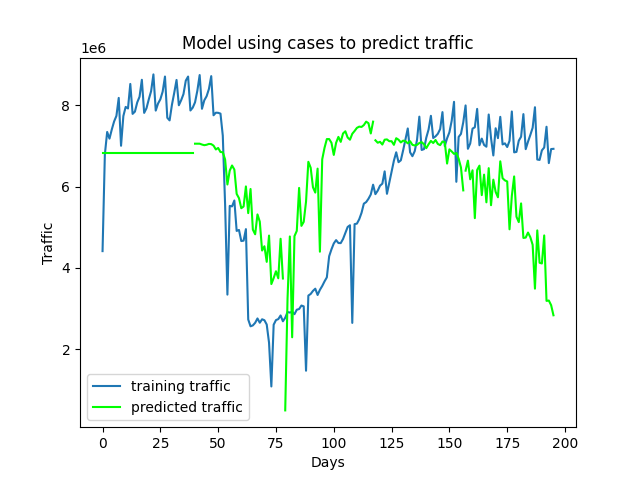
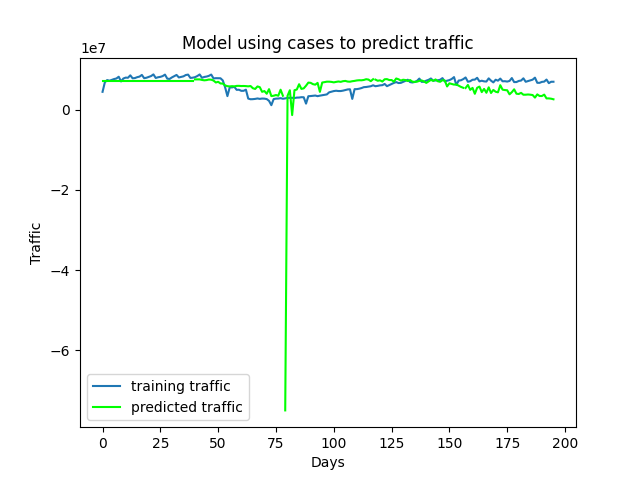
tried adding poly feats

diff --git a/weekday_data/models/feat_eng_model.py b/weekday_data/models/feat_eng_model.py
@@ -1,0 +1,44 @@
+import pandas as pd
+import matplotlib.pyplot as plt
+from covid_traffic_modelling import CovidTrafficModelling
+from sklearn.preprocessing import PolynomialFeatures
+import sys
+
+data = pd.read_csv("../../data/formatted_data.csv")
+days = data.iloc[:, 0]
+cases = data.iloc[:, 1]
+traffic = data.iloc[:, 2]
+
+print(sys.argv)
+covid_traffic = CovidTrafficModelling()
+
+# convert data to weekday only
+weekday_data = covid_traffic.remove_weekends(cases, traffic, days)
+cases = weekday_data[0]
+traffic = weekday_data[1]
+days = weekday_data[2]
+
+# format data
+cases_df = cases
+traffic_df = traffic
+cases = pd.DataFrame(cases).to_numpy()
+traffic = pd.DataFrame(traffic).to_numpy()
+cases = cases.reshape(-1, 1)
+
+# DATA PLOT
+covid_traffic.plot_data(1, cases, traffic, days)
+
+# Try different amounts of features 
+for p in range(1, 6):
+    print("\n\n--- Degree: " + str(p) + " ---")
+    poly = PolynomialFeatures(p)
+
+    # TRAFFIC ==> CASES
+    fe_traffic = poly.fit_transform(traffic)
+    covid_traffic.cases_predictor(
+        2, cases, fe_traffic, days, 'linreg', K='N/A', C='N/A')
+
+    # CASES ==> TRAFFIC
+    fe_cases = poly.fit_transform(cases)
+    covid_traffic.traffic_predictor(
+        3, fe_cases, traffic, days, 'linreg', K='N/A', C='N/A')

diff --git a/weekday_data/models/covid_traffic_modelling.py b/weekday_data/models/covid_traffic_modelling.py
@@ -99,7 +99,7 @@ class CovidTrafficModelling:
             else:
                 model = LinearRegression().fit(cases[train], traffic[train])
             ##
-            predictions = model.predict(traffic[test])
+            # predictions = model.predict(traffic[test])
             predictions = model.predict(cases[test])
             predictions = [round(num[0]) for num in predictions]
             print("mse: ", mean_squared_error(traffic[test], predictions))
